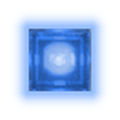
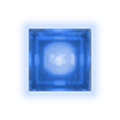
Botones: menos glow por fuera [skip ci]
Claude-Session: https://claude.ai/code/session_01LmYTuHAKQSU8qhR6nNkVAi

Changed region(s): [[0.15, 0.15, 0.85, 0.85]]

diff --git a/UI_definitiva/generadores/button_from_ref.py b/UI_definitiva/generadores/button_from_ref.py
@@ -22,7 +22,7 @@ def build(src, body, name, lit):
         dx = np.maximum(np.maximum(x0 - xx, xx - (x1 + 1)), 0); dy = np.maximum(np.maximum(y0 - yy, yy - (y1 + 1)), 0)
         d = np.hypot(dx, dy)
         out_ = ~mask
-        alpha[out_] = (0.55*np.exp(-(d[out_]**2)/(2*3.6**2)))
+        alpha[out_] = (0.28*np.exp(-(d[out_]**2)/(2*2.8**2)))
         rgb[out_] = hsv_to_rgb(np.array([H, 0.78, 0.98]))
     pad = np.zeros((h, w), bool)
     # recorte cuadrado alrededor del cuerpo
